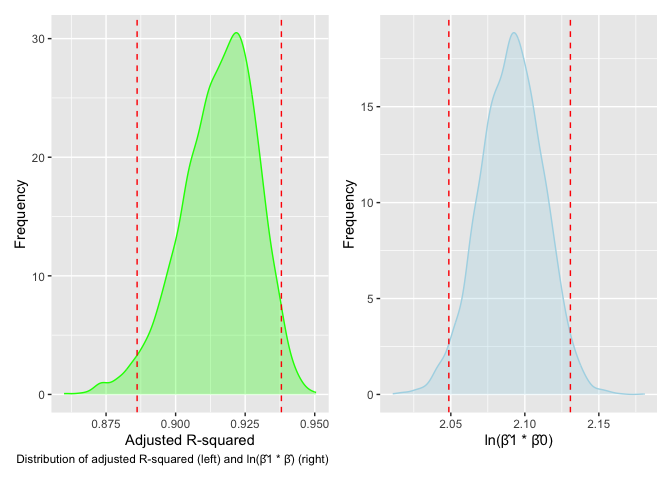
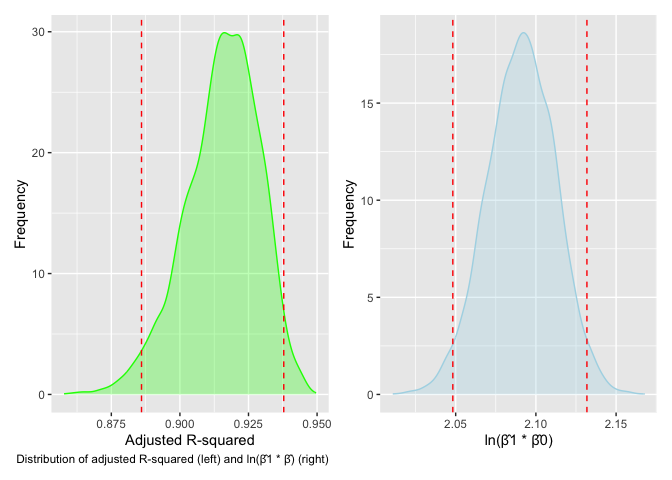
discussion

diff --git a/p8105_hw6_lt2949.md b/p8105_hw6_lt2949.md
@@ -143,7 +143,7 @@ quantile(pull(clean_weather_strap, adj_r_squared), probs = c(0.025, 0.975))
 ```
 
     ##      2.5%     97.5% 
-    ## 0.8861589 0.9380167
+    ## 0.8860024 0.9378538
 
 ``` r
 # est_log 95% CI
@@ -151,10 +151,10 @@ quantile(pull(clean_weather_strap, estimate_log), probs = c(0.025, 0.975))
 ```
 
     ##     2.5%    97.5% 
-    ## 2.048653 2.130780
+    ## 2.048223 2.131810
 
-As such, we have a 95% CI of \[0.8861589, 0.9380167\] for adjusted
-R-squared and \[2.0486525 , 2.1307799\] for ln(β̂1 \* β̂0).
+As such, we have a 95% CI of \[0.8860024, 0.9378538\] for adjusted
+R-squared and \[2.0482227 , 2.1318102\] for ln(β̂1 \* β̂0).
 
 ## Problem3
 
@@ -265,7 +265,23 @@ purrr::map(birthweight_df, ~ sum(is.na(.)))
     ## [1] 0
 
 This dataset contains 4342 rows and 20 columns, there is no missing
-data.
+data.  
+
+According to a Wikipedia
+page\[<https://en.wikipedia.org/wiki/Low_birth_weight>\] on low birth
+weight, certain maternal risk factors like younger age, higher parity,
+and a history of low birth weight (LBW) infants can influence a baby’s
+birth weight. Based on this information, I incorporated mother’s age,
+number of previous live births, and the count of past LBW infants into
+the model.
+
+The duration of gestation and the presence of malformations are also
+intuitively connected to birthweight, hence their inclusion in the
+model.
+
+Additionally, I wanted to explore the impact of sociodemographic factors
+on birthweight, leading to the inclusion of the mother’s race and family
+income as variables.
 
 ``` r
 model_fit_1 = lm(bwt ~ gaweeks + momage + mrace + malform + parity + fincome + pnumlbw, data = birthweight_df)
@@ -320,17 +336,7 @@ cv_df =
     rmse_model2 = map2_dbl(.x = model_2, .y = test, ~rmse(model = .x, data = .y)),
     rmse_model3 = map2_dbl(.x = model_3, .y = test, ~rmse(model = .x, data = .y))
   )
-```
 
-    ## Warning: There were 4 warnings in `mutate()`.
-    ## The first warning was:
-    ## ℹ In argument: `rmse_model1 = map2_dbl(.x = model_fit_1, .y = test, ~rmse(model
-    ##   = .x, data = .y))`.
-    ## Caused by warning in `predict.lm()`:
-    ## ! prediction from rank-deficient fit; attr(*, "non-estim") has doubtful cases
-    ## ℹ Run `dplyr::last_dplyr_warnings()` to see the 3 remaining warnings.
-
-``` r
 # Violin plots 
 cv_df %>% 
   select(starts_with("rmse")) %>% 
@@ -345,3 +351,13 @@ cv_df %>%
 ```
 
 ![](p8105_hw6_lt2949_files/figure-gfm/unnamed-chunk-5-1.png)<!-- -->
+
+The RMSE plot reveals that out of the three models tested, Model 3
+performs the best, evidenced by its lowest RMSE value. Contrary to
+expectations, Model 1, which was informed by information from Wikipedia,
+did not align well with the data, suggesting that Wikipedia may not be a
+reliable source for this purpose.
+
+Model 3 encompasses variables such as head circumference, length, and
+sex, along with all their interaction terms, including the three-way
+interaction among them.
